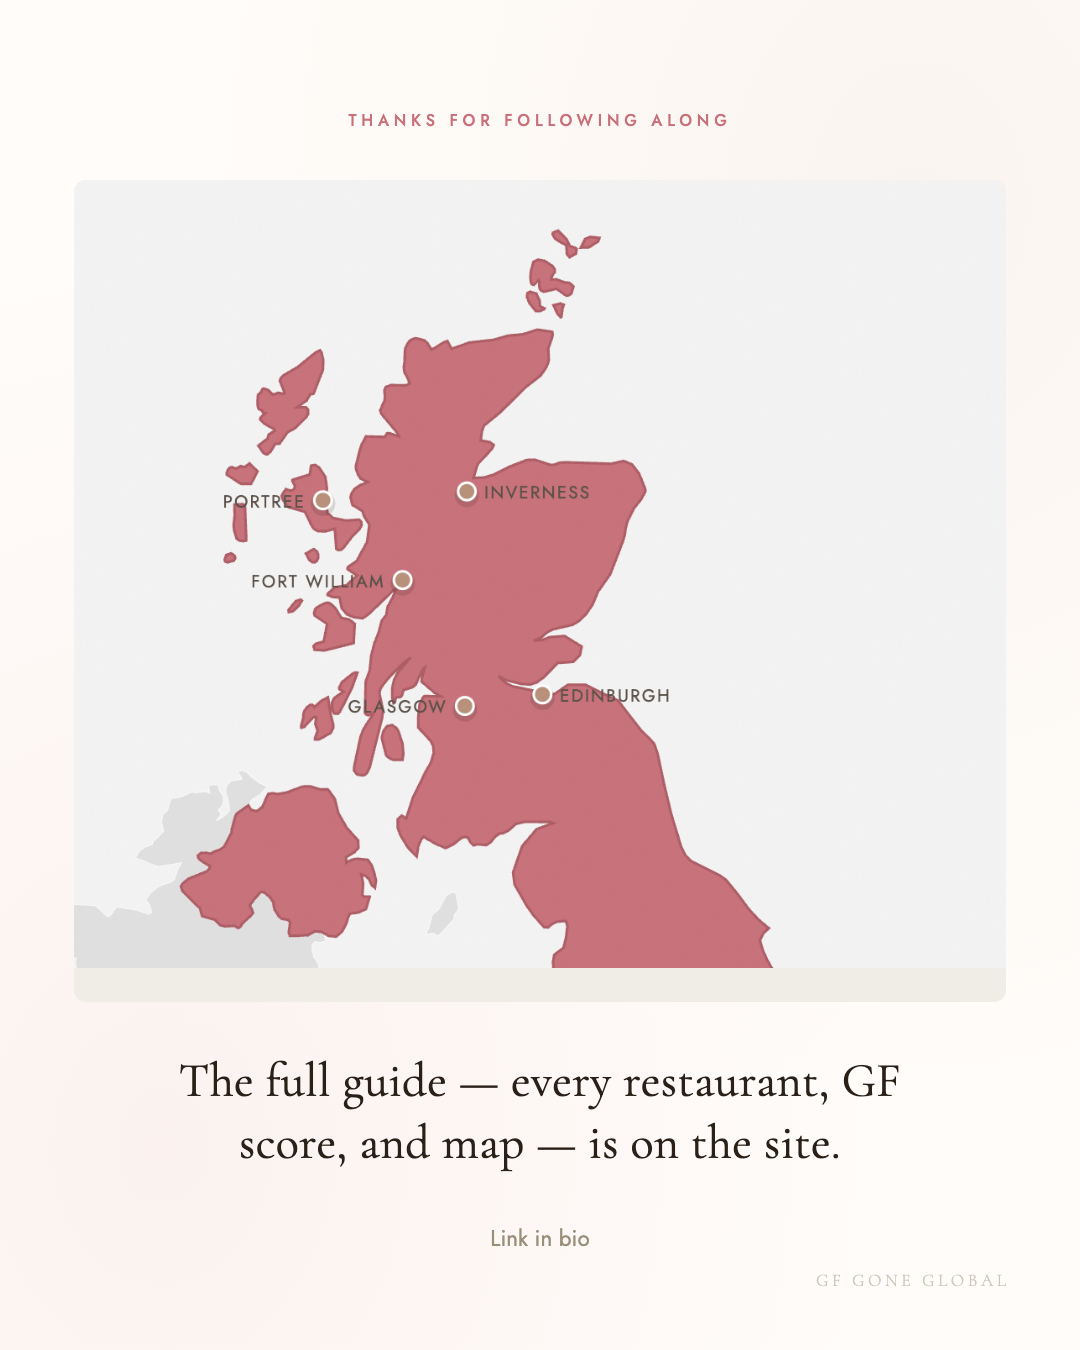
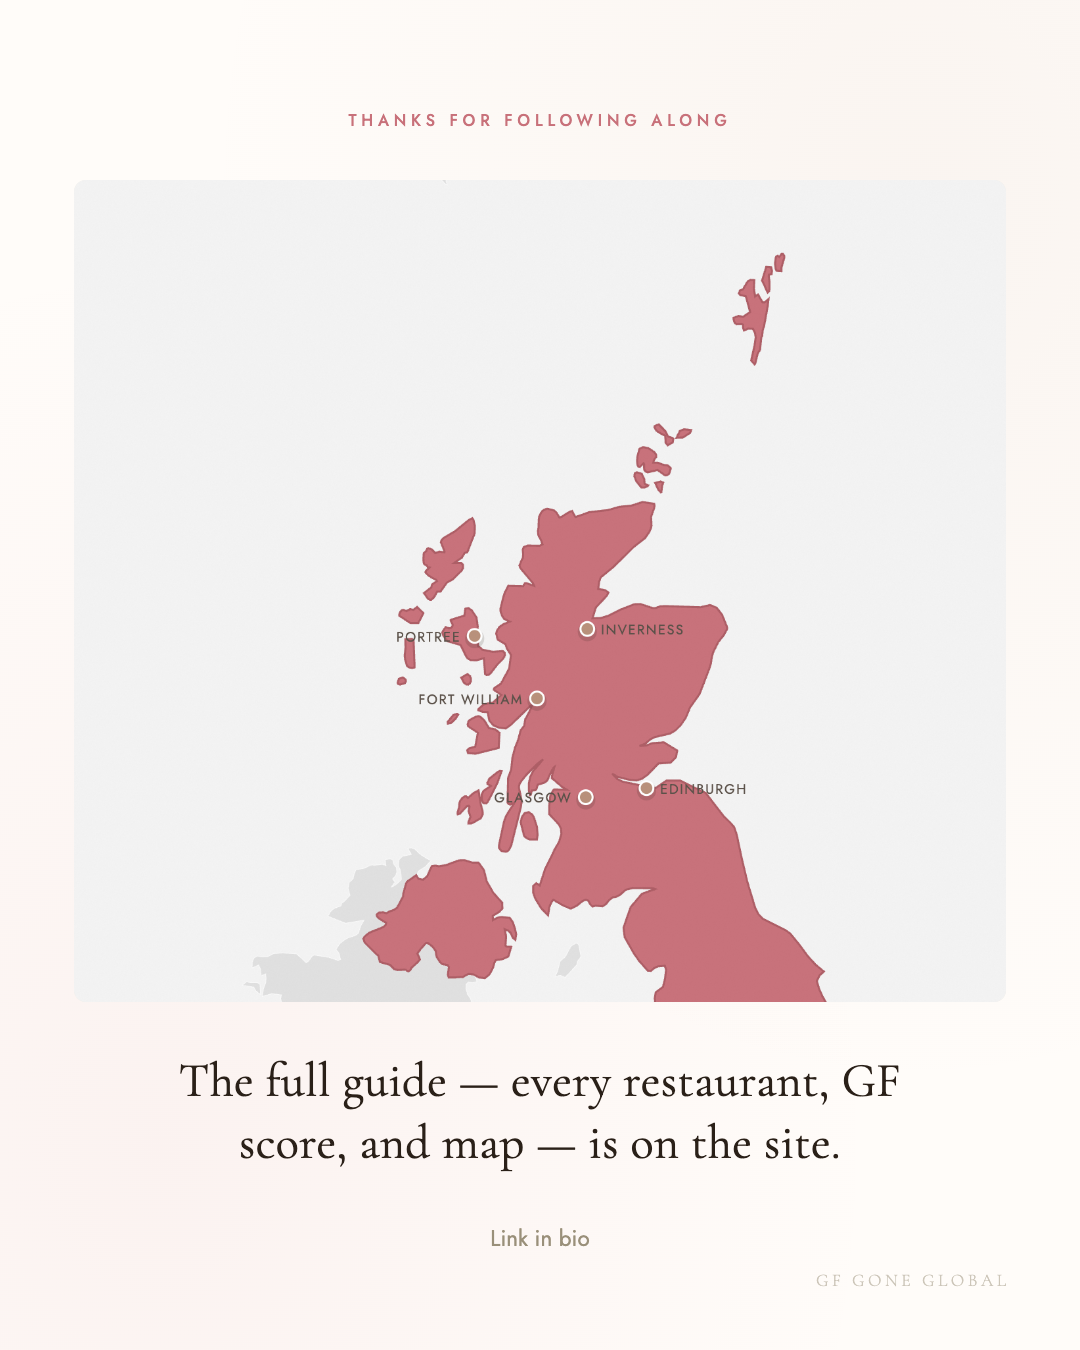
Add Pinterest (2:3) render pipeline, retrofit to Portree carousel
Standing pipeline addition per Moose: every carousel job now also
exports a true 2:3 re-render set (1000x1500) from the templates,
not a crop of the 4:5 PNGs. All three render scripts take a
--pinterest flag; output goes to instagram/exports/pinterest/
with the same filenames as the 4:5 set.

Retro-applied to all 8 Portree slides. Chargrill needed its own
crop values at 2:3 (the 4:5 crop put the diners back in frame at
the taller ratio) via new pinBgPos/pinBgSize slide overrides.

Also fixes a latent bug in the Scotland end card's map inset: it
used a fixed-percentage <img> that didn't fully cover its frame at
either ratio, leaving a visible gap. Switched to background-size:
cover like every other photo element in the system.

Portree MANIFEST.md updated with both sets' file sizes.

Changed region(s): [[0.1528, 0.1556, 0.7639, 0.7467], [0.6722, 0.1867, 0.7333, 0.28]]

diff --git a/instagram/scripts/render-photo-overlay.js b/instagram/scripts/render-photo-overlay.js
@@ -1,18 +1,25 @@
 // Renders the photo-overlay card treatment (full-bleed photo, bottom scrim,
-// serif title, optional subtitle + GF score dots, GF GONE GLOBAL watermark)
-// at 1080x1350 (4:5). Used for the Skye carousel-slide retrofit and the
-// redesigned end cards. Extends the existing card-landscape pattern from
-// scotland-batch-1.html / japan-batch-1.html to the taller ratio — same
-// type system and palette, not a new visual identity.
+// serif title, optional subtitle + GF score dots, GF GONE GLOBAL watermark).
+// Used for the Skye carousel-slide retrofit and the redesigned end cards.
+// Extends the existing card-landscape pattern from scotland-batch-1.html /
+// japan-batch-1.html — same type system and palette, not a new identity.
 //
-// Usage: node render-photo-overlay.js
+// Usage:
+//   node render-photo-overlay.js              -> 4:5 (1080x1350), exports/
+//   node render-photo-overlay.js --pinterest   -> 2:3 (1000x1500), exports/pinterest/
+//
+// Pinterest mode is a true re-render at the taller ratio, not a crop of the
+// 4:5 PNG — the background-position/size per slide may need its own tuning
+// at 2:3; check each render rather than assuming the 4:5 values still work.
 
 const puppeteer = require('puppeteer');
 const path = require('path');
 const fs = require('fs');
 
 const REPO_ROOT = path.join(__dirname, '..', '..');
-const OUT_DIR = path.join(__dirname, '..', 'exports');
+const PINTEREST = process.argv.includes('--pinterest');
+const DIMS = PINTEREST ? { w: 500, h: 750 } : { w: 540, h: 675 };
+const OUT_DIR = path.join(__dirname, '..', 'exports', ...(PINTEREST ? ['pinterest'] : []));
 
 const CSS = `
   :root {
@@ -20,8 +27,8 @@ const CSS = `
     --rose: #B8907A; --rose-light: #D4B5A0; --ink: #2A2018;
   }
   * { margin: 0; padding: 0; box-sizing: border-box; }
-  body { width: 540px; height: 675px; overflow: hidden; }
-  .card { width: 540px; height: 675px; position: relative; }
+  body { width: ${DIMS.w}px; height: ${DIMS.h}px; overflow: hidden; }
+  .card { width: ${DIMS.w}px; height: ${DIMS.h}px; position: relative; }
   .card-bg {
     position: absolute; inset: 0; background-size: cover;
   }
@@ -76,7 +83,7 @@ function buildHtml(slide) {
     <link href="https://fonts.googleapis.com/css2?family=Cormorant+Garamond:wght@300;400&family=Jost:wght@300;400;500&display=swap" rel="stylesheet">
     <style>${CSS}</style></head><body>
     <div class="card" data-card>
-      <div class="card-bg" style="background-image:url('${slide.photo}'); background-position:${slide.bgPos || 'center'}; background-size:${slide.bgSize || 'cover'};"></div>
+      <div class="card-bg" style="background-image:url('${slide.photo}'); background-position:${(PINTEREST && slide.pinBgPos) || slide.bgPos || 'center'}; background-size:${(PINTEREST && slide.pinBgSize) || slide.bgSize || 'cover'};"></div>
       <div class="scrim"></div>
       <div class="watermark">GF Gone Global</div>
       <div class="content">
@@ -115,6 +122,8 @@ const slides = [
     score: { score: 4, max: 5 },
     bgPos: '68% 88%',
     bgSize: '148%',
+    pinBgPos: '72% 97%',
+    pinBgSize: '190%',
   },
   {
     out: 'gfgoneglobal-scotland-skye-cuillin-hills-hotel.png',
@@ -154,7 +163,7 @@ const slides = [
   const tmpPath = path.join(__dirname, '_tmp-slide.html');
   const browser = await puppeteer.launch({ headless: true });
   const page = await browser.newPage();
-  await page.setViewport({ width: 540, height: 675, deviceScaleFactor: 2 });
+  await page.setViewport({ width: DIMS.w, height: DIMS.h, deviceScaleFactor: 2 });
 
   for (const slide of slides) {
     fs.writeFileSync(tmpPath, buildHtml(slide));

diff --git a/instagram/scripts/render-design-cards.js b/instagram/scripts/render-design-cards.js
@@ -1,12 +1,21 @@
 // Redesigned "explainer" card (visual split-stat layout instead of a wall of
-// text) and the new "packing" card type (icon grid), both at 1080x1350.
-// Usage: node render-design-cards.js
+// text), the "packing" card type (icon grid), and the map-based end card.
+//
+// Usage:
+//   node render-design-cards.js              -> 4:5 (1080x1350), exports/
+//   node render-design-cards.js --pinterest   -> 2:3 (1000x1500), exports/pinterest/
+//
+// The end card's map inset is a fixed 1:1 square regardless of card height,
+// so at 2:3 it doesn't crop worse than 4:5 — it just leaves more room below
+// for text. Check the render anyway; don't assume.
 
 const puppeteer = require('puppeteer');
 const path = require('path');
 const fs = require('fs');
 
-const OUT_DIR = path.join(__dirname, '..', 'exports');
+const PINTEREST = process.argv.includes('--pinterest');
+const DIMS = PINTEREST ? { w: 500, h: 750 } : { w: 540, h: 675 };
+const OUT_DIR = path.join(__dirname, '..', 'exports', ...(PINTEREST ? ['pinterest'] : []));
 const MAP_PATH = 'file://' + path.join(__dirname, '..', 'map-assets', 'scotland-map.png');
 
 const SHARED_CSS = `
@@ -15,9 +24,9 @@ const SHARED_CSS = `
     --rose: #B8907A; --ink: #2A2018; --ink-mid: #5A5048; --ink-light: #9A907A;
   }
   * { margin: 0; padding: 0; box-sizing: border-box; }
-  body { width: 540px; height: 675px; overflow: hidden; font-family: 'Jost', sans-serif; }
+  body { width: ${DIMS.w}px; height: ${DIMS.h}px; overflow: hidden; font-family: 'Jost', sans-serif; }
   .card {
-    width: 540px; height: 675px; position: relative; background: var(--cream);
+    width: ${DIMS.w}px; height: ${DIMS.h}px; position: relative; background: var(--cream);
     padding: 3.4rem 2.3rem 3rem; display: flex; flex-direction: column;
     justify-content: space-between;
   }
@@ -74,7 +83,7 @@ const SHARED_CSS = `
     position: relative; width: 100%; aspect-ratio: 1 / 1; border-radius: 6px;
     overflow: hidden; background: #F0ECE6;
   }
-  .map-frame img { position: absolute; width: 180%; max-width: none; left: -48%; top: -32%; }
+  .map-frame .map-bg { position: absolute; inset: 0; background-size: cover; background-position: 38% 55%; }
   .end-title {
     font-family: 'Cormorant Garamond', serif; font-weight: 400; font-size: 1.5rem;
     letter-spacing: 0.01em; color: var(--ink); line-height: 1.3; text-align: center;
@@ -159,7 +168,7 @@ function scotlandEndCardHtml() {
     <style>${SHARED_CSS}</style></head><body>
     <div class="card end-card-map" data-card>
       <div class="label" style="margin-bottom:0;">Thanks for Following Along</div>
-      <div class="map-frame"><img src="${MAP_PATH}"></div>
+      <div class="map-frame"><div class="map-bg" style="background-image:url('${MAP_PATH}')"></div></div>
       <div class="end-title">The full guide — every restaurant, GF score, and map — is on the site.</div>
       <div class="end-subtitle">Link in bio</div>
       <div class="watermark">GF Gone Global</div>
@@ -172,7 +181,7 @@ function scotlandEndCardHtml() {
   const tmpPath = path.join(__dirname, '_tmp-design-card.html');
   const browser = await puppeteer.launch({ headless: true });
   const page = await browser.newPage();
-  await page.setViewport({ width: 540, height: 675, deviceScaleFactor: 2 });
+  await page.setViewport({ width: DIMS.w, height: DIMS.h, deviceScaleFactor: 2 });
 
   const cards = [
     { out: 'gfgoneglobal-explainer-gf-scores.png', html: explainerHtml() },

diff --git a/instagram/scripts/render-overview-card.js b/instagram/scripts/render-overview-card.js
@@ -1,16 +1,20 @@
-// Renders the "overview" stats card type (photo strip + stat grid on cream)
-// at 1080x1350, extending the existing .card-overview pattern from
-// scotland-batch-1.html / japan-batch-1.html. Now holds 6 stats (3x2) to fit
-// Best Months + Ideal Stay alongside the original 4.
+// Renders the "overview" stats card type (photo strip + stat grid on cream),
+// extending the existing .card-overview pattern from scotland-batch-1.html /
+// japan-batch-1.html. Holds 6 stats (3x2) to fit Best Months + Ideal Stay
+// alongside the original 4.
 //
-// Usage: node render-overview-card.js
+// Usage:
+//   node render-overview-card.js              -> 4:5 (1080x1350), exports/
+//   node render-overview-card.js --pinterest   -> 2:3 (1000x1500), exports/pinterest/
 
 const puppeteer = require('puppeteer');
 const path = require('path');
 const fs = require('fs');
 
 const REPO_ROOT = path.join(__dirname, '..', '..');
-const OUT_DIR = path.join(__dirname, '..', 'exports');
+const PINTEREST = process.argv.includes('--pinterest');
+const DIMS = PINTEREST ? { w: 500, h: 750 } : { w: 540, h: 675 };
+const OUT_DIR = path.join(__dirname, '..', 'exports', ...(PINTEREST ? ['pinterest'] : []));
 
 const CSS = `
   :root {
@@ -18,8 +22,8 @@ const CSS = `
     --rose: #B8907A; --ink: #2A2018; --ink-light: #9A907A;
   }
   * { margin: 0; padding: 0; box-sizing: border-box; }
-  body { width: 540px; height: 675px; overflow: hidden; font-family: 'Jost', sans-serif; }
-  .card { width: 540px; height: 675px; position: relative; background: var(--cream); display: flex; flex-direction: column; }
+  body { width: ${DIMS.w}px; height: ${DIMS.h}px; overflow: hidden; font-family: 'Jost', sans-serif; }
+  .card { width: ${DIMS.w}px; height: ${DIMS.h}px; position: relative; background: var(--cream); display: flex; flex-direction: column; }
   .photo-strip { height: 42%; position: relative; overflow: hidden; }
   .photo-strip .bg { position: absolute; inset: 0; background-size: cover; }
   .photo-strip::after {
@@ -80,7 +84,7 @@ const cards = [
   const tmpPath = path.join(__dirname, '_tmp-overview-card.html');
   const browser = await puppeteer.launch({ headless: true });
   const page = await browser.newPage();
-  await page.setViewport({ width: 540, height: 675, deviceScaleFactor: 2 });
+  await page.setViewport({ width: DIMS.w, height: DIMS.h, deviceScaleFactor: 2 });
 
   for (const card of cards) {
     fs.writeFileSync(tmpPath, buildHtml(card));

diff --git a/instagram/handoff/portree-carousel/MANIFEST.md b/instagram/handoff/portree-carousel/MANIFEST.md
@@ -2,25 +2,27 @@
 
 **Status: Caption approved by Kelly. Cleared to publish.**
 
-Final 8-slide order. All images 1080×1350 (4:5), ready for Instagram's carousel aspect ratio — no further cropping needed on post.
+Final 8-slide order. Two complete sets, same filenames in each folder:
+- **Instagram (4:5, 1080×1350):** `instagram/exports/`
+- **Pinterest (2:3, 1000×1500):** `instagram/exports/pinterest/` — true re-renders from the templates at the taller ratio, not crops of the 4:5 PNGs. All 8 slides got a working 2:3 render; none needed to fall back to the 4:5 (every photo slide's crop was checked and, where needed, re-tuned specifically for 2:3 — see Chargrill below).
 
-| # | Slide | Filename | Dimensions | Size | Notes |
-|---|-------|----------|------------|------|-------|
-| 1 | The View Restaurant | `instagram/exports/gfgoneglobal-scotland-skye-the-view-restaurant.png` | 1080×1350 | 1.8M | 5/5 GF score. Moved to 1st per Kelly. |
-| 2 | Quiraing | `instagram/exports/gfgoneglobal-scotland-skye-quiraing.png` | 1080×1350 | 1.4M | Re-exported at 4:5; was square (1080×1080) as Day 10 in scotland-batch-1.html. |
-| 3 | Portree Harbour | `instagram/exports/gfgoneglobal-scotland-skye-portree-harbour.png` | 1080×1350 | 1.7M | New slide. |
-| 4 | Fairy Pools | `instagram/exports/gfgoneglobal-scotland-skye-fairy-pools.png` | 1080×1350 | 1.8M | Re-exported at 4:5; was square as Day 6. |
-| 5 | Chargrill | `instagram/exports/gfgoneglobal-scotland-skye-chargrill.png` | 1080×1350 | 1.6M | 4/5 GF score. Recropped — diners removed from frame. |
-| 6 | Cuillin Hills Hotel | `instagram/exports/gfgoneglobal-scotland-skye-cuillin-hills-hotel.png` | 1080×1350 | 1.3M | New slide — "Where to Stay" treatment. Hotels.com affiliate URL on file (see below), not yet placed anywhere. |
-| 7 | Portree Overview | `instagram/exports/gfgoneglobal-scotland-skye-portree-overview.png` | 1080×1350 | 480K | Re-exported at 4:5; was square as Day 9. Added Best Months (May–Sep) and Ideal Stay (3–4 nights) to the stat grid. |
-| 8 | Scotland End Card | `instagram/exports/gfgoneglobal-scotland-end-card.png` | 1080×1350 | 508K | Reusable across **every** Scotland carousel, not Portree-specific — uses a real screenshot of the site's own Scotland map (`instagram/map-assets/scotland-map.png`), not a photo. Do not swap for a city-specific image. |
+| # | Slide | Filename (same in both folders) | 4:5 Size | Pinterest Size | Notes |
+|---|-------|----------|------|------|-------|
+| 1 | The View Restaurant | `gfgoneglobal-scotland-skye-the-view-restaurant.png` | 1.8M | 2.5M | 5/5 GF score. Moved to 1st per Kelly. |
+| 2 | Quiraing | `gfgoneglobal-scotland-skye-quiraing.png` | 1.4M | 1.4M | Re-exported at 4:5; was square (1080×1080) as Day 10 in scotland-batch-1.html. |
+| 3 | Portree Harbour | `gfgoneglobal-scotland-skye-portree-harbour.png` | 1.7M | 2.5M | New slide. |
+| 4 | Fairy Pools | `gfgoneglobal-scotland-skye-fairy-pools.png` | 1.8M | 2.5M | Re-exported at 4:5; was square as Day 6. |
+| 5 | Chargrill | `gfgoneglobal-scotland-skye-chargrill.png` | 1.6M | 1.4M | 4/5 GF score. Recropped — diners removed from frame. **Pinterest uses its own crop values** (`pinBgPos`/`pinBgSize` in render-photo-overlay.js) — the 4:5 crop put the diners back in frame at 2:3, so this one isn't a shared crop between the two sets. |
+| 6 | Cuillin Hills Hotel | `gfgoneglobal-scotland-skye-cuillin-hills-hotel.png` | 1.3M | 1.3M | New slide — "Where to Stay" treatment. Hotels.com affiliate URL on file (see below), not yet placed anywhere. |
+| 7 | Portree Overview | `gfgoneglobal-scotland-skye-portree-overview.png` | 480K | 512K | Re-exported at 4:5; was square as Day 9. Added Best Months (May–Sep) and Ideal Stay (3–4 nights) to the stat grid. |
+| 8 | Scotland End Card | `gfgoneglobal-scotland-end-card.png` | 496K | 500K | Reusable across **every** Scotland carousel, not Portree-specific — uses a real screenshot of the site's own Scotland map (`instagram/map-assets/scotland-map.png`), not a photo. Do not swap for a city-specific image. Fixed a bug in this pass: the map image wasn't fully covering its frame at either ratio (visible gap at the bottom) — now uses `background-size: cover` like every other photo element instead of a fixed-percentage `<img>`. |
 
 ## Supporting data
 
 - **Caption:** Written by Moose, approved by Kelly on 2026-10-25. Not duplicated here — pull from wherever Moose's own copy lives.
 - **Cuillin Hills Hotel affiliate URL** (Hotels.com, for the Hotel card type / future reference): `https://www.hotels.com/affiliate?landingPage=https%3A%2F%2Fwww.hotels.com%2Fho74376032%2Fcuillin-hills-hotel-portree-united-kingdom%2F&camref=1100l5QxCT&creativeref=1011l66481`
 - **Source batch file:** `instagram/scotland-batch-1.html` (post-wrapper markup, captions, hashtags for the underlying daily posts these slides were drawn from).
-- **Card templates / regeneration scripts:** `instagram/scripts/render-photo-overlay.js` (photo-overlay slides), `instagram/scripts/render-overview-card.js` (Portree Overview stats card), `instagram/scripts/render-design-cards.js` (Explainer, What to Pack, Scotland end card).
+- **Card templates / regeneration scripts:** `instagram/scripts/render-photo-overlay.js` (photo-overlay slides), `instagram/scripts/render-overview-card.js` (Portree Overview stats card), `instagram/scripts/render-design-cards.js` (Explainer, What to Pack, Scotland end card). Each now takes a `--pinterest` flag to render the 2:3 set instead of the default 4:5 — e.g. `node render-photo-overlay.js --pinterest`.
 
 ## Explicitly NOT part of this post
 
